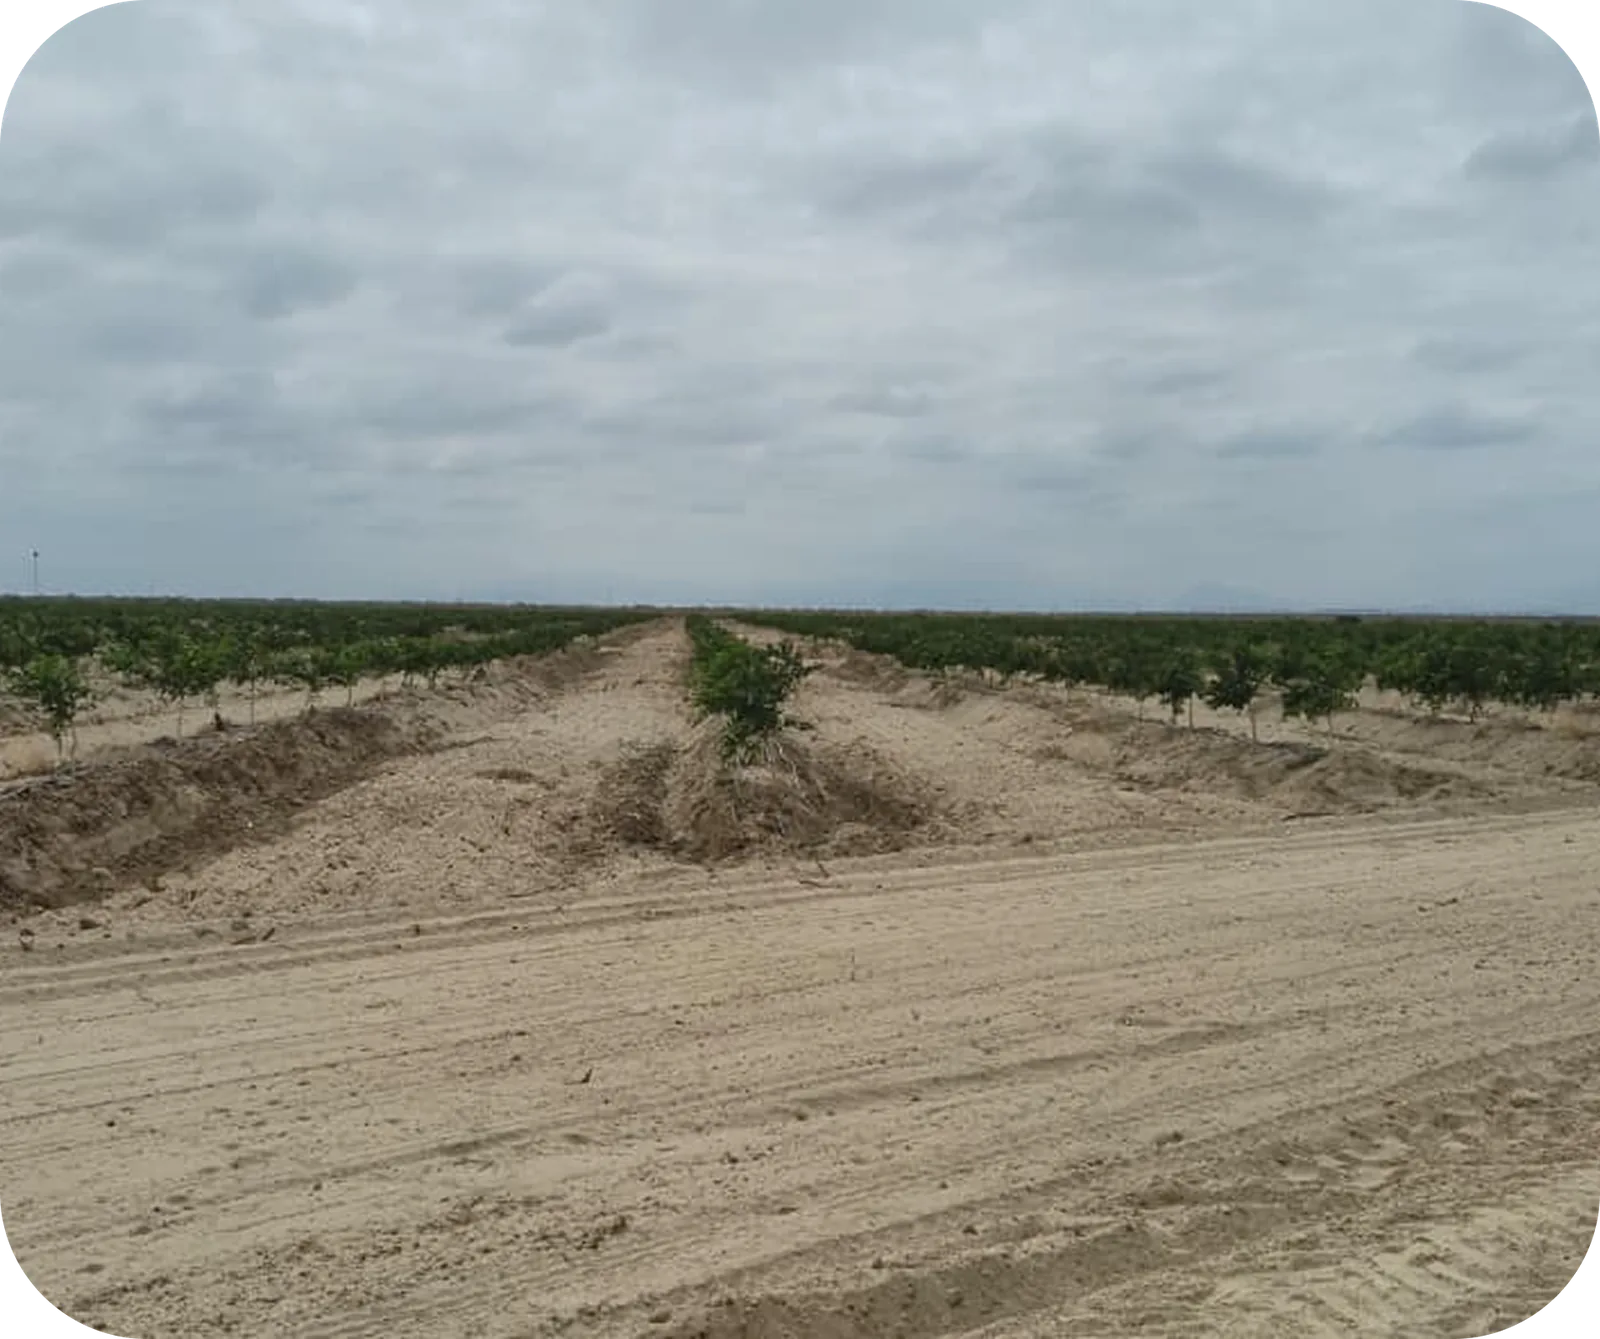
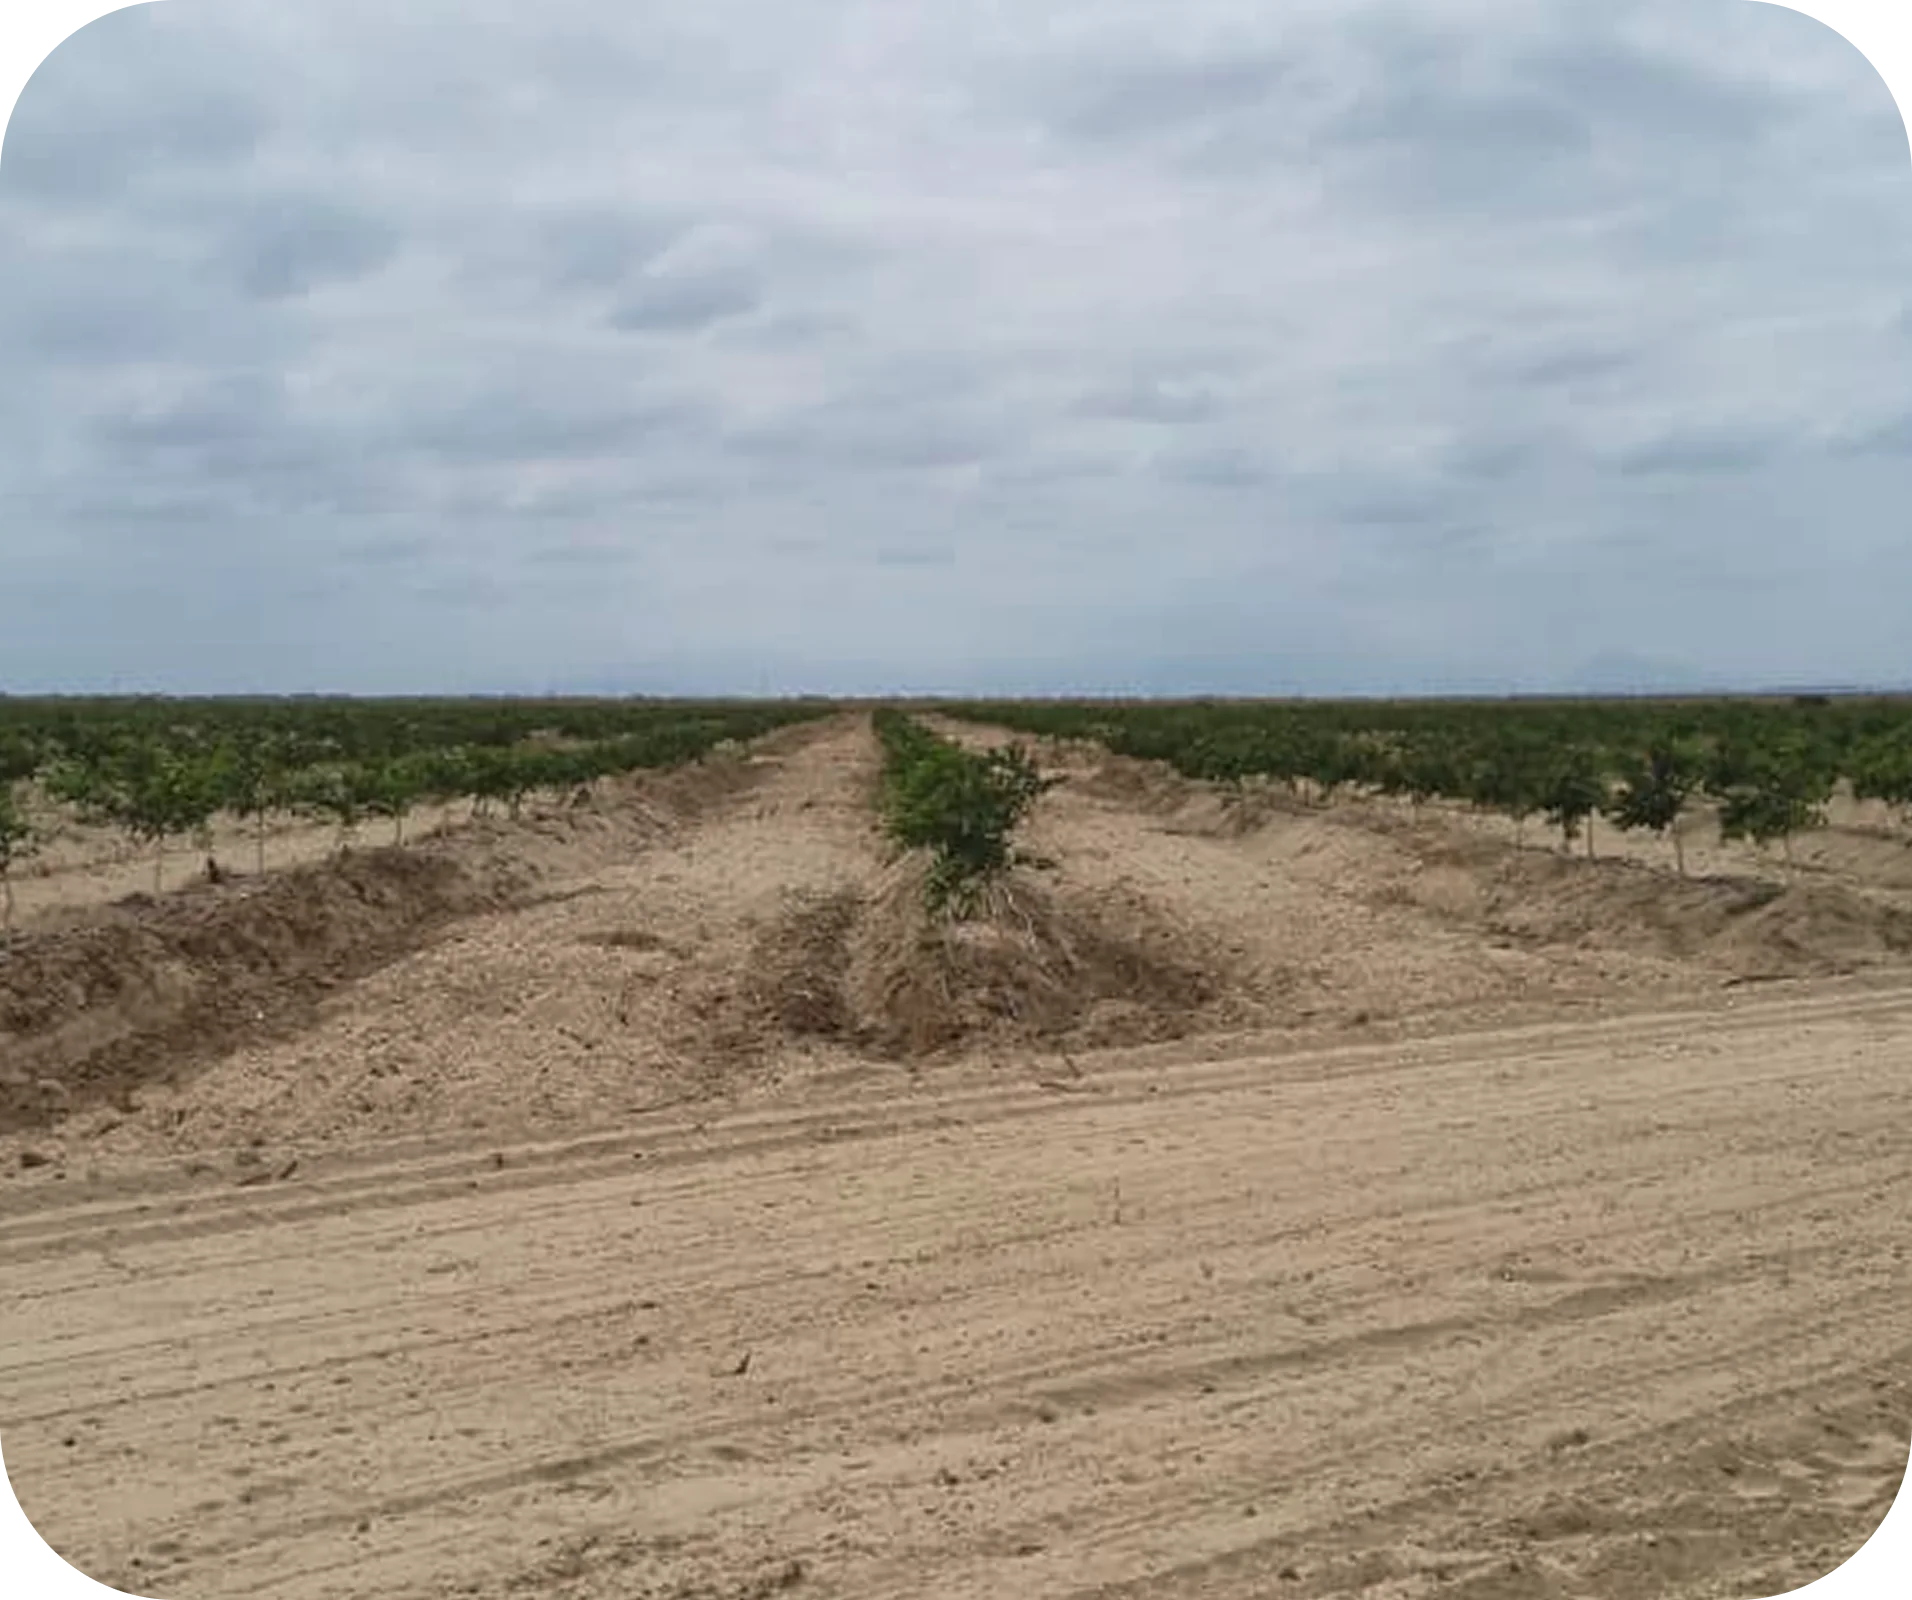
Carrusel de proyectos a 8 fotos webp y ajustes de radios en movil
- assets/proyectos: fotos reordenadas y nueva carrusel-4, todas convertidas a webp
  (31.8 MB en PNG -> 4.6 MB) y se eliminan los PNG originales
- carrusel pasa de 6 a 8 fotos en desktop y movil
- web-mobile: copias del carrusel reescaladas a 1200px (4.6 MB -> 2.0 MB)
- movil proyectos: la imagen toma el mismo radio que el recuadro de texto (26px)
- movil nosotros: tarjetas mision/vision y fotos del equipo a 26px
- movil que-hacemos: las 8 tarjetas del proceso quedan de igual altura (grid 1fr)
- movil index: acordeones ESG de 13px a 18px

diff --git a/web-mobile/proyectos.html b/web-mobile/proyectos.html
@@ -11,7 +11,7 @@
 <link rel="stylesheet" href="mobile.css">
 <style>
   .proy{padding:44px 30px 46px}
-  .proy .stage{position:relative;margin-top:22px;width:100%;aspect-ratio:4/3;border-radius:18px;overflow:hidden;background:#022016}
+  .proy .stage{position:relative;margin-top:22px;width:100%;aspect-ratio:4/3;border-radius:26px;overflow:hidden;background:#022016} /* mismo radio que .card */
   .proy .stage img{width:100%;height:100%;object-fit:cover;display:block}
   .proy .zone{position:absolute;top:0;bottom:0;width:50%;cursor:pointer;z-index:2;background:none;border:0}
   .proy .zone-prev{left:0}
@@ -31,7 +31,7 @@
     .proy .seg{transition:none}
     .proy .seg.now i{animation:none;width:100%}
   }
-  .proy .card{margin-top:28px;background:#F3FAEF;border-radius:28px;padding:30px 26px}
+  .proy .card{margin-top:28px;background:#F3FAEF;border-radius:26px;padding:30px 26px}
   .proy .card p{font-size:16px;line-height:1.4;color:#0d7233;font-weight:400;text-align:center;letter-spacing:-.2px}
   .proy .card strong{font-weight:500}
 </style>
@@ -93,7 +93,7 @@
   <script src="mobile.js"></script>
   <script>
   (function(){
-    var fotos=['carrusel-1.webp','carrusel-2.webp','carrusel-3.webp','carrusel-4.webp','carrusel-5.webp','carrusel-6.webp'];
+    var fotos=['carrusel-1.webp','carrusel-2.webp','carrusel-3.webp','carrusel-4.webp','carrusel-5.webp','carrusel-6.webp','carrusel-7.webp','carrusel-8.webp'];
     var DUR=1800;
     var i=0, img=document.getElementById('proyImg'), segs=document.getElementById('proySegs'), autoT=null;
     document.querySelector('.proy').style.setProperty('--dur', DUR+'ms');

diff --git a/web-mobile/nosotros.html b/web-mobile/nosotros.html
@@ -14,14 +14,14 @@
   .nos > .chip{margin-bottom:2px}
   .chip-sep{margin-top:40px}
   .mv{display:flex;flex-direction:column;gap:16px;margin-top:22px;margin-bottom:6px}
-  .mv-card{background:rgba(123,194,80,.09);border-radius:20px;padding:26px 24px}
+  .mv-card{background:rgba(123,194,80,.09);border-radius:26px;padding:26px 24px}
   .mv-chip{display:inline-block;background:rgba(123,194,80,.16);color:#6aa63c;font-family:var(--display);font-size:17px;border-radius:999px;padding:8px 22px}
   .mv-text{margin-top:18px;font-size:16px;line-height:1.4;color:#043120;font-weight:400}
   .mv-text .hl{color:#6aa63c;font-weight:400}
   .team{display:grid;grid-template-columns:1fr 1fr;gap:22px 16px;margin-top:24px}
   .tcard{text-align:center}
   .tcard-solo{grid-column:1 / -1;justify-self:center;width:calc(50% - 8px)}
-  .tphoto{width:100%;aspect-ratio:1/1;border-radius:16px;overflow:hidden;background:#e7ece8}
+  .tphoto{width:100%;aspect-ratio:1/1;border-radius:26px;overflow:hidden;background:#e7ece8}
   .tphoto img{width:100%;height:100%;object-fit:cover;display:block}
   .tname{display:block;margin-top:11px;font-family:var(--font);font-weight:400;font-size:15px;color:#008340;line-height:1.25}
   .trole{display:block;font-family:var(--font);font-weight:700;font-size:15px;color:#008340;margin-top:2px;line-height:1.25}

diff --git a/web-mobile/que-hacemos.html b/web-mobile/que-hacemos.html
@@ -17,7 +17,9 @@
   /* proceso: tarjetas verde claro sobre la foto, apiladas (igual al desktop) */
   .proceso{position:relative;margin-top:28px;padding:26px 24px 40px}
   .proceso-bg{position:absolute;inset:0;background:url('assets/quehacemos-bg2.webp') center/cover no-repeat}
-  .proceso-grid{position:relative;display:flex;flex-direction:column;gap:14px}
+  /* grid de una columna con filas iguales: todas las tarjetas toman la altura
+     de la más alta, sin importar si el texto ocupa una o dos líneas */
+  .proceso-grid{position:relative;display:grid;grid-template-columns:1fr;grid-auto-rows:1fr;gap:14px}
   .paso{background:#e9f4e1;border-radius:20px;padding:22px 22px}
   .paso:nth-child(2),.paso:nth-child(4),.paso:nth-child(5),.paso:nth-child(7){background:#F3FAEF}
   .paso-num{display:block;font-family:var(--font);font-weight:400;font-size:42px;line-height:1;color:#0d7233;margin-bottom:12px}

diff --git a/web-mobile/index.html b/web-mobile/index.html
@@ -102,7 +102,7 @@
   .flow{background:#fff}
   .pilares{background:#fff;padding:44px 34px 12px}
   .pilares .lead{margin:16px 0 18px;font-size:13.5px;color:#5a6b62;font-weight:300}
-  .pill{border:1px solid var(--borde-pill);border-radius:13px;margin-bottom:12px;overflow:hidden;background:#fff}
+  .pill{border:1px solid var(--borde-pill);border-radius:18px;margin-bottom:12px;overflow:hidden;background:#fff}
   .pill summary{list-style:none;cursor:pointer;height:50px;display:flex;align-items:center;gap:12px;padding:0 18px;font-size:17.5px;font-weight:500;color:var(--verde-oscuro);letter-spacing:-.4px}
   .pill summary::-webkit-details-marker{display:none}
   .leaf{width:15px;height:15px;border-radius:50%;flex:none}

diff --git a/script.js b/script.js
@@ -485,7 +485,9 @@ document.addEventListener('DOMContentLoaded', () => {
       'assets/proyectos/carrusel-3.webp',
       'assets/proyectos/carrusel-4.webp',
       'assets/proyectos/carrusel-5.webp',
-      'assets/proyectos/carrusel-6.webp'
+      'assets/proyectos/carrusel-6.webp',
+      'assets/proyectos/carrusel-7.webp',
+      'assets/proyectos/carrusel-8.webp'
     ];
     const pA = proySlider.querySelector('.proy-a');
     const pB = proySlider.querySelector('.proy-b');

diff --git a/sitio/script.js b/sitio/script.js
@@ -454,7 +454,9 @@ document.addEventListener('DOMContentLoaded', () => {
       'assets/proyectos/carrusel-3.webp',
       'assets/proyectos/carrusel-4.webp',
       'assets/proyectos/carrusel-5.webp',
-      'assets/proyectos/carrusel-6.webp'
+      'assets/proyectos/carrusel-6.webp',
+      'assets/proyectos/carrusel-7.webp',
+      'assets/proyectos/carrusel-8.webp'
     ];
     const pA = proySlider.querySelector('.proy-a');
     const pB = proySlider.querySelector('.proy-b');
